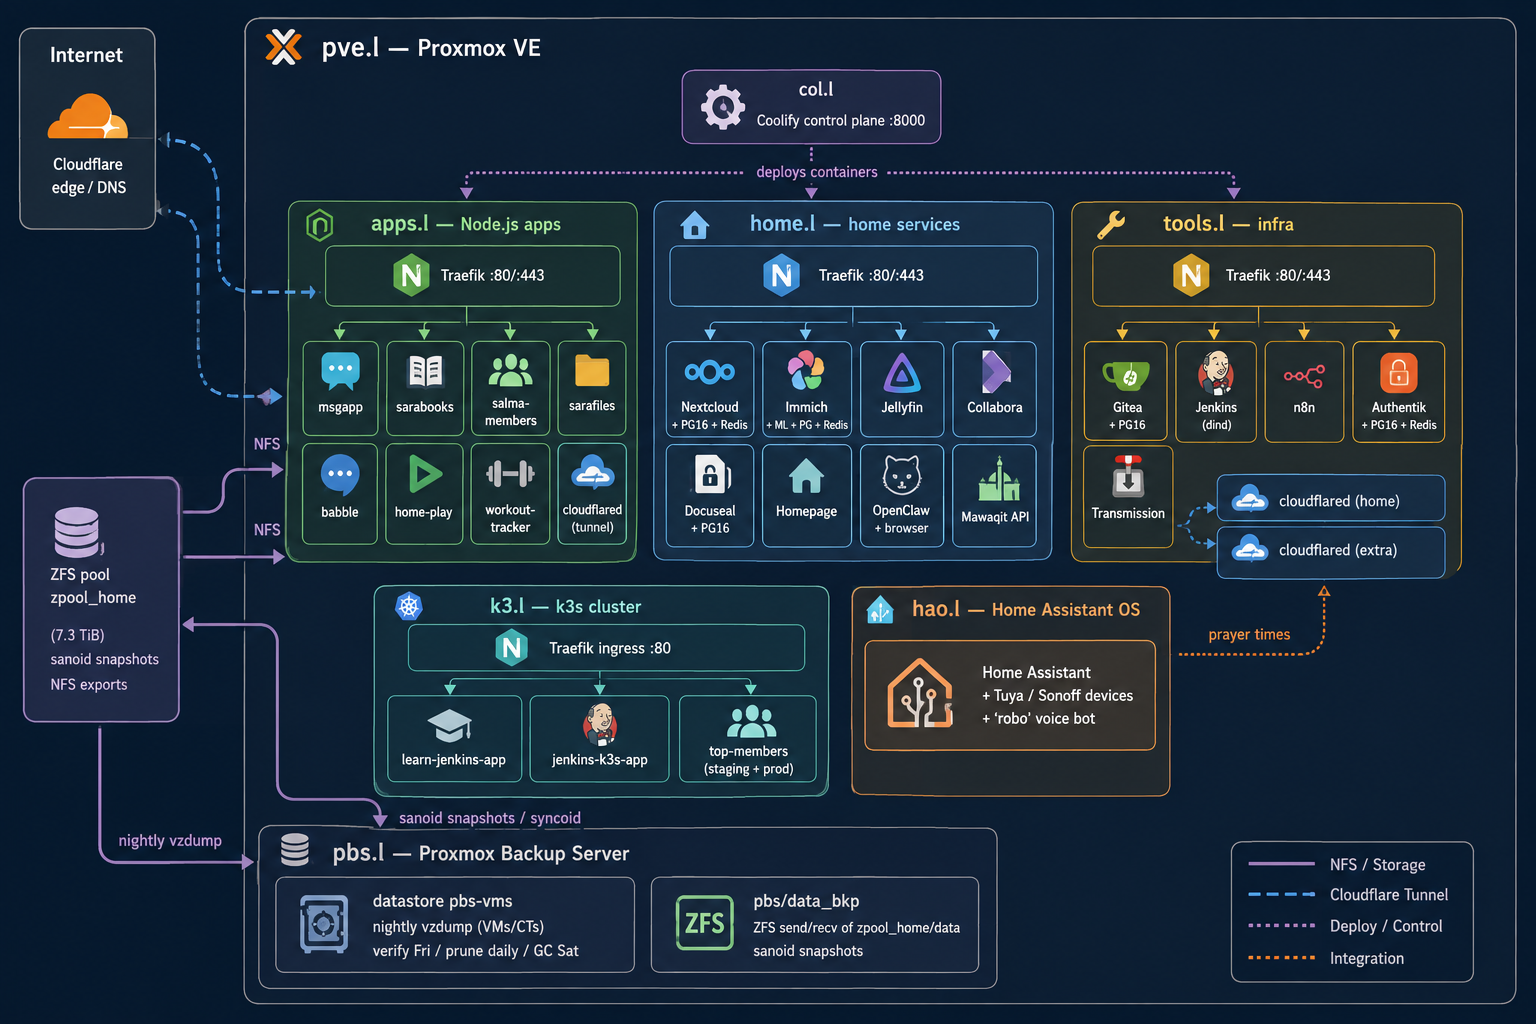
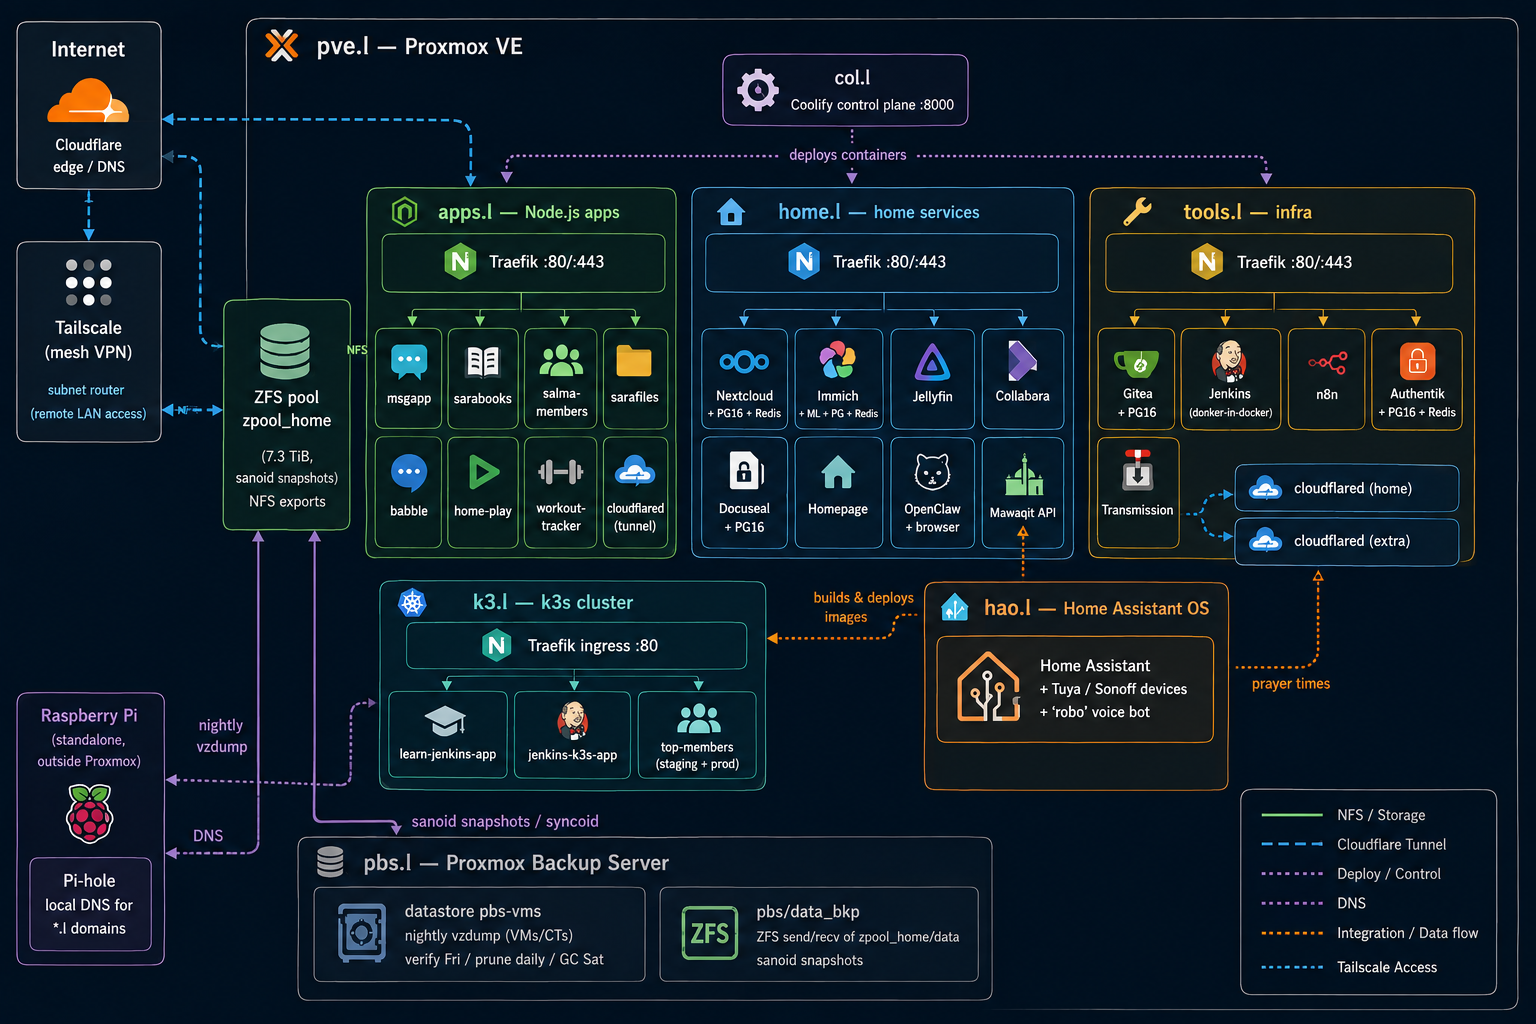
adds tailscale

diff --git a/index.html b/index.html
@@ -218,7 +218,7 @@
     <div class="grid">
       <div class="card">
         <h3>pve.l</h3>
-        <p>Proxmox VE host — ZFS pool, NFS shares, sanoid snapshots</p>
+        <p>Proxmox VE host — ZFS pool, NFS shares, Tailscale subnet router</p>
       </div>
       <div class="card">
         <h3>col.l</h3>
@@ -247,6 +247,10 @@
       <div class="card">
         <h3>hao.l</h3>
         <p>Home Assistant OS (Supervisor-managed, not containerized)</p>
+      </div>
+      <div class="card">
+        <h3>Pi-hole</h3>
+        <p>Raspberry Pi — standalone device, not a Proxmox guest; local DNS for *.l</p>
       </div>
     </div>
 
@@ -436,6 +440,9 @@
       </li>
       <li><strong>Zero inbound ports</strong> — public access rides Cloudflare Tunnels terminating at Traefik inside the
         LAN.</li>
+      <li><strong>Three-tier access model</strong> — Cloudflare Tunnels = public access, Tailscale (subnet router on
+        pve.l) = private remote access to the whole LAN, Pi-hole (separate Raspberry Pi) = local DNS resolution for
+        <code>*.l</code> domains.</li>
       <li><strong>k3s is separate from Coolify</strong> — k3.l workloads are plain <code>kubectl apply</code> manifests;
         only Traefik comes from k3s' bundled Helm controller (plain-HTTP ingress, no cert-manager).</li>
       <li><strong>Layered backups</strong> — sanoid snapshots + ZFS replication of <code>zpool_home/data</code> to

diff --git a/docs/architecture.md b/docs/architecture.md
@@ -14,6 +14,8 @@ opened on the router.
 flowchart TB
     subgraph internet["Internet"]
         CF["Cloudflare edge / DNS"]
+        tsnet["Tailscale
+            (mesh VPN)"]
     end
 
     subgraph pve["pve.l — Proxmox VE"]
@@ -97,6 +99,16 @@ flowchart TB
     CF --> atun
     CF --> ttun1
     CF --> ttun2
+    tsnet -. "subnet router
+        (remote LAN access)" .-> pve
+
+    subgraph pi["Raspberry Pi — standalone, outside Proxmox"]
+        pihole["Pi-hole
+            local DNS for *.l domains"]
+    end
+
+    pihole -. "DNS" .-> apps & home & tools & k3
+
     ctl -. deploys containers .-> apps & home & tools
     jk -. builds & deploys images .-> k3
     has -->|prayer times| mw
@@ -106,7 +118,7 @@ flowchart TB
 
 | Host | Role | Notes |
 |------|------|-------|
-| `pve.l` | Proxmox VE host | ZFS pool, NFS shares, sanoid snapshotting |
+| `pve.l` | Proxmox VE host | ZFS pool, NFS shares, sanoid snapshotting, Tailscale subnet router |
 | `col.l` | Coolify control plane | Deploys/manages all containers across hosts |
 | `apps.l` | Node.js / personal apps | Traefik + 7 apps + 1 tunnel |
 | `home.l` | Home services | Traefik + 8 services + media/NAS mounts |
@@ -114,6 +126,7 @@ flowchart TB
 | `k3.l` | k3s Kubernetes cluster | Single node, Traefik ingress, separate from Coolify |
 | `pbs.l` | Proxmox Backup Server | Datastore `pbs-vms` + ZFS replication target, root-only SSH |
 | `hao.l` | Home Assistant OS | Supervisor-managed, not containerized |
+| *(Raspberry Pi)* | Pi-hole DNS | Standalone device, not a Proxmox guest; local DNS for `*.l` domains |
 
 ## Service table
 
@@ -142,6 +155,7 @@ flowchart TB
 | learn-jenkins-app | k3.l | Jenkins→k3s deploy experiment | Node.js (GHCR image), 2 namespaces |
 | jenkins-k3s-app | k3.l | Jenkins→k3s pipeline app | Node.js (GHCR image) |
 | top-members | k3.l | Membership app (staging + prod) | Node.js + Postgres 15 + nginx SPA |
+| Pi-hole | *(Raspberry Pi)* | Local DNS for `*.l` domains | Pi-hole (standalone, outside Proxmox) |
 
 ## Key design decisions
 
@@ -155,6 +169,11 @@ flowchart TB
   served for the internal `example.home` hosts.
 - **No inbound ports** — public access rides Cloudflare Tunnels; the tunnels
   terminate at Traefik inside the LAN.
+- **Three-tier access model** — Cloudflare Tunnels handle public access (no
+  inbound ports), a Tailscale subnet router on pve.l provides private remote
+  access to the whole LAN over a mesh VPN (no per-host installs needed), and
+  a Pi-hole on a separate Raspberry Pi provides local DNS resolution for all
+  `*.l` domains.
 - **Layered backup: sanoid + syncoid + PBS** — the shared `zpool_home/data`
   tree is snapshotted by sanoid (weekly/monthly/yearly) and replicated via
   ZFS send/recv to `pbs.l:pbs/data_bkp`; simultaneously every VM/CT gets a

diff --git a/README.md b/README.md
@@ -79,6 +79,9 @@ fill in real values, and it stays out of git.
 - **Zero inbound ports** — public access via Cloudflare Tunnels terminating
   at Traefik inside the LAN (k3.l's Traefik is plain HTTP ingress; its public
   top-members host is the one exception).
+- **Three-tier access model** — Cloudflare Tunnels = public access, Tailscale
+  (subnet router on pve.l) = private remote access to the whole LAN,
+  Pi-hole (separate Raspberry Pi) = local DNS resolution for `*.l` domains.
 - **Layered backups (sanoid + syncoid + PBS)** — `zpool_home/data` is
   snapshotted and ZFS-replicated to `pbs.l:pbs/data_bkp`, and every VM/CT
   gets a nightly `vzdump` into the `pbs-vms` datastore on pbs.l (verify
